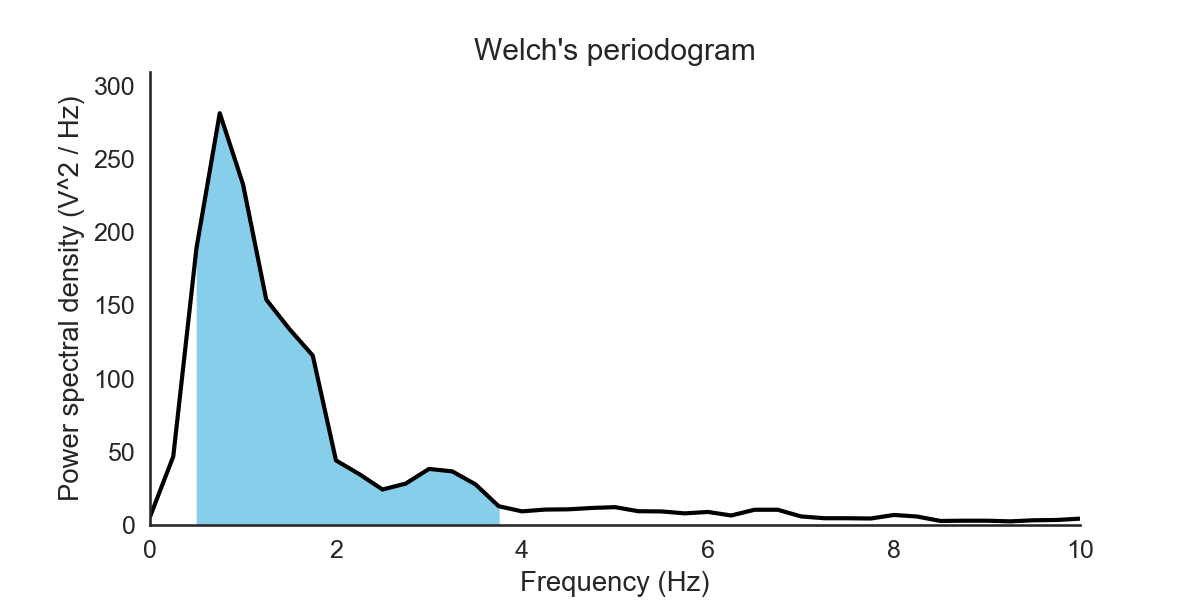
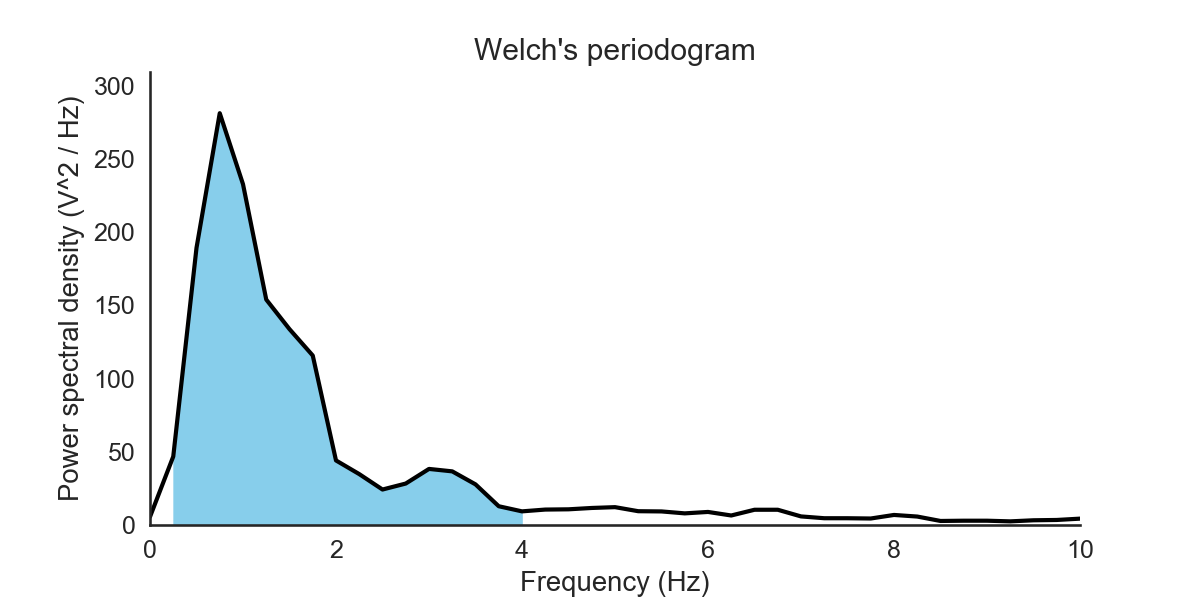
finished guide spectral

Changed region(s): [[0.1233, 0.48, 0.185, 0.87], [0.4008, 0.84, 0.4317, 0.87]]

diff --git a/bandpower.html b/bandpower.html
@@ -79,34 +79,45 @@
           <h3>Compute the average bandpower of an EEG signal.</h3>
         </header>
 
-        <p align="justify">Welcome to this first tutorial on EEG signal processing in Python. In this first part, we are going to see how to compute the average bandpower of a signal across a specific frequency range.</p>
+        <p align="justify">Welcome to this first tutorial on EEG signal processing in Python!
+        <br><br> In this first part, we are going to see how to compute the average bandpower of a signal across a specific frequency range.
+        <br><br>
+        One of the most popular technique to analyze EEG data is to decompose the signal into functionally distinct frequency bands, such as delta (0.5–4 Hz), theta (4–7 Hz), alpha (8–12 Hz), beta (12–30 Hz), and gamma (30–100 Hz). This implies the decomposition of the EEG signal into frequency bands, which is commonly achieved through <a href="https://en.wikipedia.org/wiki/Fourier_transform" target="_blank">Fourier transforms</a>.<br></p>
+
+        <span class="image fit"><img src="images/tutorials/bandpower/brain_waves.png" alt="Brain waves"/></span>
+
+        <p align="justify">While several type of analyses can be performed with frequency bands, I am going to focus here on a very simple one: the <b>average band power</b>. For instance, if you are looking at EEG sleep data and are interested in slow-wave sleep (N3 sleep), which are characterized by high delta activity, you might want to know "what is the average power of the delta frequency band during slow-wave sleep?".
+        <br><br>Typically, higher delta values indicate a higher amount of slow-waves and are associated with increased subjective sleep quality (sleep is more "refreshing"). Using that simple metric, it becomes easy to compare objective sleep quality between groups (e.g. insomniacs versus control, old vs young...) or within individuals.</p>
 
         <hr />
 
         <h4>Data loading</h4>
 
-        <p align="justify">For the sake of this tutorial, please find below a short single-channel 30-seconds extract of N3 (deep) sleep data from one individual. The sampling frequency is 100 Hz and the total duration is 30 seconds (= 3000 data points).</p>
+        <p align="justify">For the sake of this tutorial, please find below a 30-seconds extract of real slow-wave sleep from one young individual. The sampling frequency is 100 Hz and the channel is F3.</p>
 
         <ul class="actions" align="center">
           <li><a href="images/tutorials/bandpower/data.txt" class="button special icon fa-download" download>Download the raw data (.txt) for this tutorial</a></li>
         </ul>
 
-        <p align="justify">Loading the data is fairly easy:</p>
+        <p align="justify">Time to open your favorite Python editor! Loading the data is fairly easy:</p>
 
         <pre><code class="python">import numpy as np
 data = np.loadtxt('data.txt')</code></pre>
 
-        <p align="justify">Let's take a look at the data. Note that I used the seaborn package rather than matplotlib to make nicer figures. To plot the data using matplotlib:</p>
+        <p align="justify">Let's take a look at the data:</p>
 
         <pre><code class="python">import matplotlib.pyplot as plt
+import seaborn as sns
+sns.set(font_scale=1.2)
 sf = 100.
 time = np.arange(data.size) / sf
 fig, ax = plt.subplots(1, 1, figsize=(12, 4))
-plt.plot(time, data, lw=1)
+plt.plot(time, data, lw=1.5, color='k')
 plt.xlabel('Time (seconds)')
 plt.ylabel('Voltage')
 plt.xlim([time.min(), time.max()])
 plt.title('N3 sleep EEG data (F3)')
+sns.despine()
 </code></pre>
 
         <span class="image fit"><img src="images/tutorials/bandpower/signal.png" alt="" /></span>
@@ -115,11 +126,8 @@ plt.title('N3 sleep EEG data (F3)')
 
         <h4>Computing the power spectral density</h4>
 
-        <p align="justify">Now let's say that you want to compute the average power of the Delta frequency band (0.5 - 4.5 Hz). To do that, we first need to compute an estimate of the power spectral density. The most widely-used method to do that is the Fourier transform,
-          and specifically via the Welch's periodogram (in short, average of consecutive Fourier transform on small windows of the signal). The Welch's method allows to improve the accuracy of the classic periodogram and as such is sometimes called a
-          modified periodogram.
-          <br><br> Because our lower frequency of the delta band is 0.5 Hz, it means that a full cycle is completed every two seconds (= 1 / 0.5). To get a sufficient resolution, we will therefore multiply this value by two to get a window length of 4
-          seconds.
+        <p align="justify">Now let's say that you want to compute the average power of the Delta frequency band (0.5 - 4.5 Hz). To do that, we first need to compute an estimate of the <a href="https://en.wikipedia.org/wiki/Spectral_density" target="_blank">power spectral density</a>. The most widely-used method to do that is the <a href="https://en.wikipedia.org/wiki/Welch%27s_method" target="_blank">Welch's periodogram</a>, which consists in squaring and averaging consecutive Fourier transform of small windows of the signal, with or without overlapping. The Welch's method allows to improve the accuracy of the classic periodogram and as such is sometimes called a modified periodogram.
+        <br><br> Because the lower limit of the delta band is 0.5 Hz, it means that a full cycle is completed every two seconds (= 1 / 0.5). To get a sufficient resolution, we need at least two full cycles, i.e. a window length of 4 seconds.
         </p>
 
         <pre><code class="python">from scipy import signal
@@ -127,20 +135,27 @@ nperseg = 4 * sf
 freqs, psd = signal.welch(data, sf, nperseg=nperseg, scaling='density')
 
 # Plot the power spectrum
-plt.plot(freqs, psd)
+sns.set(font_scale=1.2, style='white')
+plt.figure(figsize=(8, 4))
+plt.plot(freqs, psd, color='k', lw=2)
 plt.xlabel('Frequency (Hz)')
 plt.ylabel('Power spectral density (V^2 / Hz)')
 plt.ylim([0, psd.max() * 1.1])
 plt.title("Welch's periodogram")
 plt.xlim([0, 20])
+sns.despine()
 </code></pre>
 
         <span class="image fit"><img src="images/tutorials/bandpower/psd.png" alt="" /></span>
 
 
-        <p align="justify">The freqs vector contains the x-axis (frequency bins) and the psd vector contains the y-axis (power spectral density). The units of the power spectral density, when working with EEG data, is Volts-squared per Hz (V^2/Hz).
-          <br><br> Note that the x-axis goes as far as the Nyquist frequency which is half the sampling frequency of the signal (50 Hz).
-          <br><br> Now, before computing the average delta bandpower, we need to find the frequency bins that intersect our delta band (defined by the range 0.5 to 4 Hz).</p>
+        <p align="justify">The freqs vector contains the x-axis (frequency bins) and the psd vector contains the y-axis (power spectral density). The units of the power spectral density, when working with EEG data, is Volts-squared per Hz (V^2/Hz).</p>
+
+        <ul class="feature-icons">
+          <li class="fa-exclamation-triangle">Note that the maximum value of the x-axis is half the sampling frequency (<a href="https://en.wikipedia.org/wiki/Nyquist_frequency" target="_blank">Nyquist frequency</a>)</li>
+        </ul>
+
+        <p align="justify">Now, before computing the average delta bandpower, we need to find the frequency bins that intersect our delta band (defined by the range 0.5 to 4 Hz).</p>
 
         <pre><code class="python"># Define delta lower and upper limits
 low, high = 0.5, 4
@@ -150,13 +165,21 @@ idx_delta = np.zeros(dtype=bool, shape=freqs.shape)
 idx_delta[idx_min:idx_max] = True
 
 # Plot the power spectral density and fill the area comprising the delta band
-plt.plot(freqs, psd)
-plt.fill_between(freqs, psd, where=idx_delta)
+plt.figure(figsize=(8, 4))
+plt.plot(freqs, psd, lw=2, color='k')
+
+# plt.fill_between does not count the first and last True values of idx_delta
+idx_fill = idx_delta.copy()
+idx_fill[idx_min-1:idx_max+1]= True
+plt.fill_between(freqs, psd, where=idx_fill)
+
+# Axes and labels
 plt.xlabel('Frequency (Hz)')
 plt.ylabel('Power spectral density (V^2 / Hz)')
 plt.xlim([0, 10])
 plt.ylim([0, psd.max() * 1.1])
 plt.title("Welch's periodogram")
+sns.despine()
 </code></pre>
 
         <span class="image fit"><img src="images/tutorials/bandpower/psd_area.png" alt="" /></span>
@@ -166,9 +189,9 @@ plt.title("Welch's periodogram")
 
         <h4>Average bandpower</h4>
 
-        <p align="justify">The total, absolute, delta power is equals to the blue area of the previous plot. As there is no closed-form formula to integrate this area, we need to approximate it by using the composite trapezoidal rule. The idea behind it is actually very simple: we decompose this area into several trapezoids and then sum the area of these trapezoids. This is not limited to trapezoids and could also be computed using rectangle.</p>
+        <p align="justify">The absolute delta power is equals to the blue area of the previous plot. As there is no closed-form formula to integrate this area, we need to approximate it by using the <a href="https://en.wikipedia.org/wiki/Trapezoidal_rule" target="_blank">composite trapezoidal rule</a>. The idea behind it is actually very simple: we decompose this area into several trapezoids and then sum the area of these trapezoids. This is not limited to trapezoids and could also be computed using rectangle (e.g. in the Matlab <a href="https://www.mathworks.com/help/signal/ref/bandpower.html" target="_blank">bandpower</a> function).</p>
 
-<pre><code class="python"># Approximation of the area under the curve using the trapezoid rule
+<pre><code class="python"># Compute the absolute delta power by approximating the area under the curve
 delta_power = np.trapz(psd[idx_delta], freqs[idx_delta])
 print('Absolute delta power: %.3f V^2' % delta_power)
 </code></pre>
@@ -183,6 +206,74 @@ print('Relative delta power: %.3f' % delta_rel_power)
 
 <p align="justify"><b>Relative delta power:</b> 0.769 <br>
 In other words, 76.9% of the total power of the signal is contained in the delta frequency band.</p>
+
+<hr />
+
+<h4>Generalization</h4>
+
+<p align="justify">The function below is a generalization of the above, that can be used to easily get the average absolute or relative power in a specific frequency band. It is very similar to the Matlab <a href="https://www.mathworks.com/help/signal/ref/bandpower.html" target="_blank">bandpower</a> function, the two main differences being that it uses a Welch's periodogram instead of a classical periodogram, and trapezoids instead of rectangle to approximate the area.</p>
+
+<pre><code class="python">def bandpower(data, sf, band, window_sec=None, relative=False):
+    """Compute the average power of the signal x in a specific frequency band.
+
+    Parameters
+    ----------
+    data : 1d-array
+        Input signal in the time-domain.
+    sf : float
+        Sampling frequency of the data.
+    band : list
+        Lower and upper frequencies of the band of interest.
+    window_sec : float
+        Length of each window in seconds.
+        If None, window_sec = (1 / min(band)) * 2
+    relative : boolean
+        If True, return the relative power (= divided by the total power of the signal).
+        If False (default), return the absolute power.
+
+    Return
+    ------
+    bp : float
+        Absolute or relative band power.
+
+    Examples
+    ------
+    1. Absolute and relative power in the delta band
+        >>> delta = bandpower(data, 100, [0.5, 4])
+        >>> delta_relative = bandpower(data, 100, [0.5, 4], relative=True)
+
+    2. Delta / beta ratio
+        >>> window_sec = 4
+        >>> delta = bandpower(data, 100, [0.5, 4], window_sec)
+        >>> beta = bandpower(data, 100, [12, 30], window_sec)
+        >>> db_ratio = delta / beta
+    """
+    import numpy as np
+    from scipy.signal import welch
+    band = np.asarray(band)
+    low, high = band
+
+    # Compute the modified periodogram (Welch)
+    if window_sec is not None:
+        nperseg = window_sec * sf
+    else:
+        nperseg = (2 / low) * sf
+
+    freqs, psd = welch(data, sf, nperseg=nperseg, scaling='density')
+
+    # Find closest indices of band in frequency vector
+    idx_min = np.argmax(freqs > low) - 1
+    idx_max = np.argmax(freqs > high) - 1
+    idx_band = np.zeros(dtype=bool, shape=freqs.shape)
+    idx_band[idx_min:idx_max] = True
+
+    # Integral approximation of the spectrum using the trapezoid rule
+    bp = np.trapz(psd[idx_band], freqs[idx_band])
+
+    if relative:
+        bp /= np.trapz(psd, freqs)
+    return bp
+</code></pre>
 
 
       </div>
